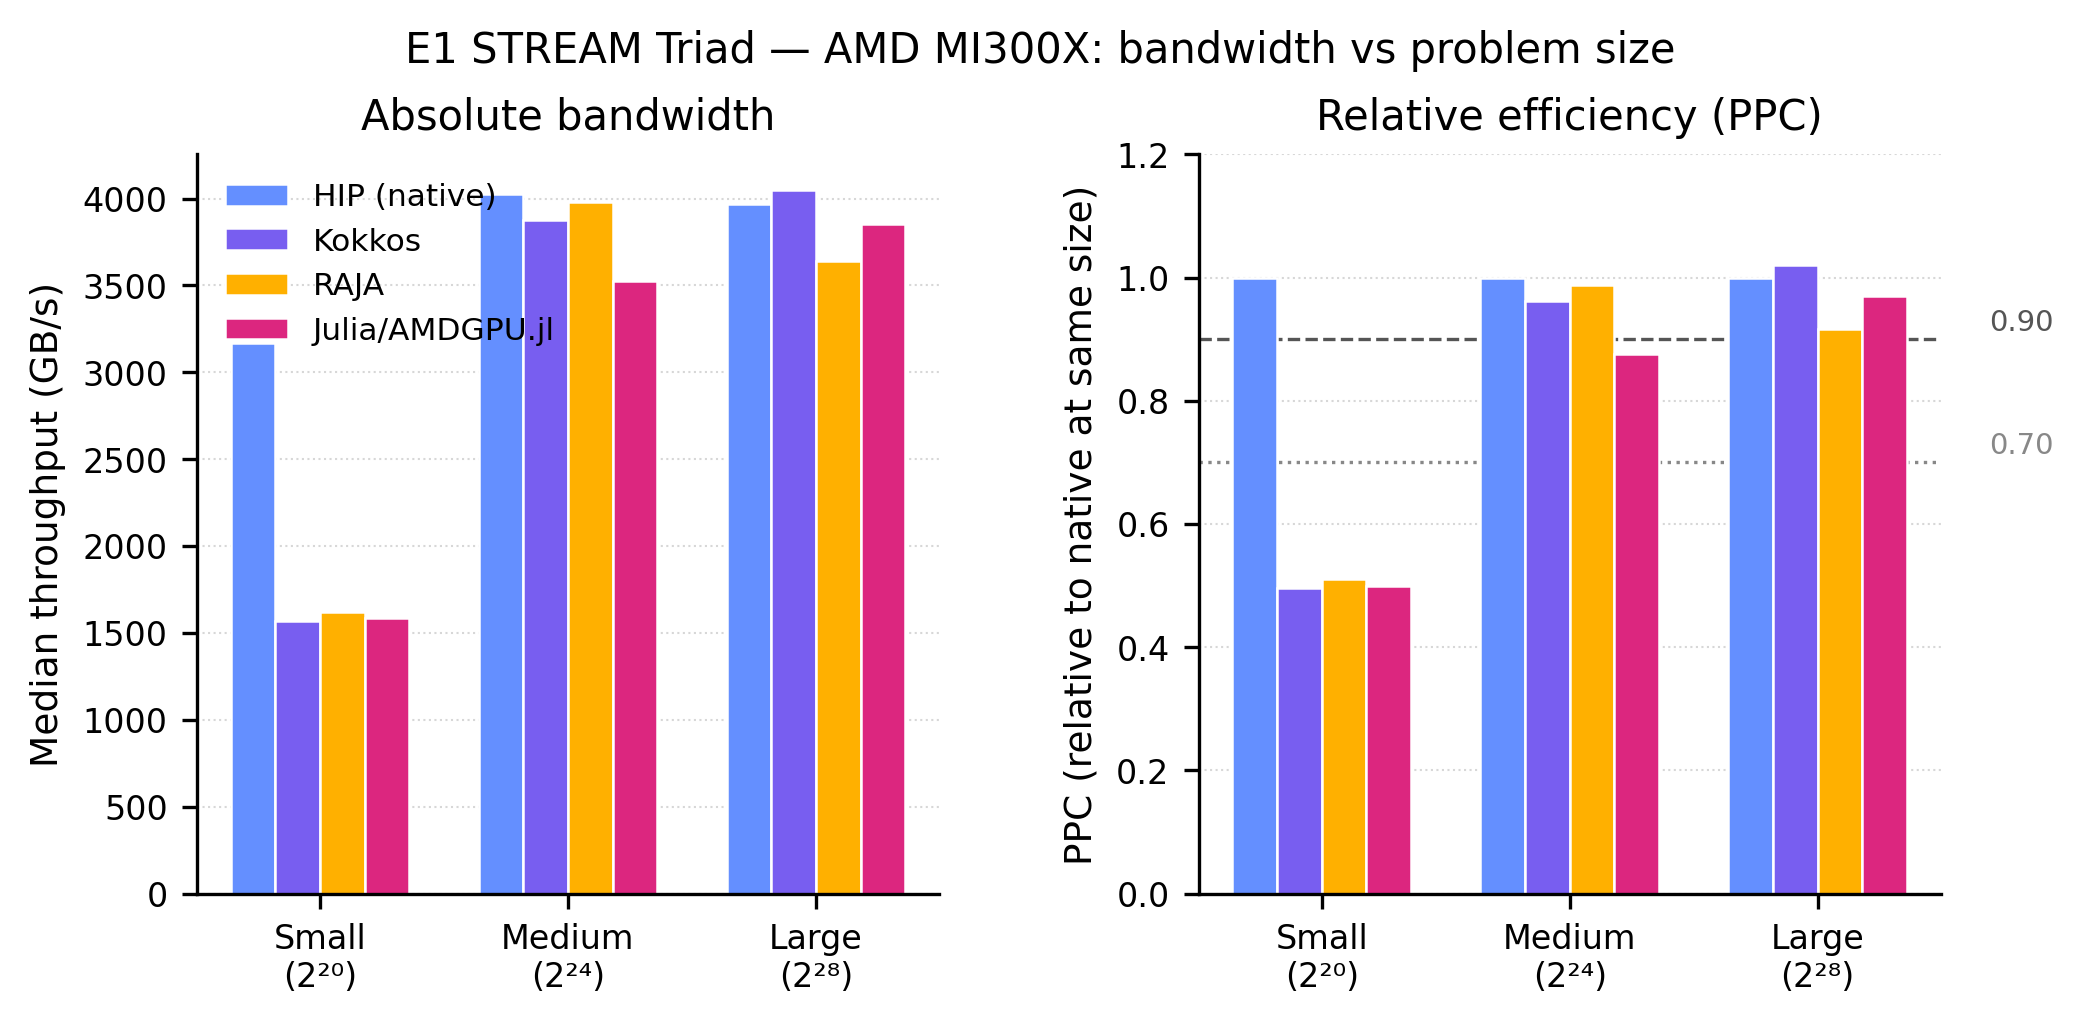
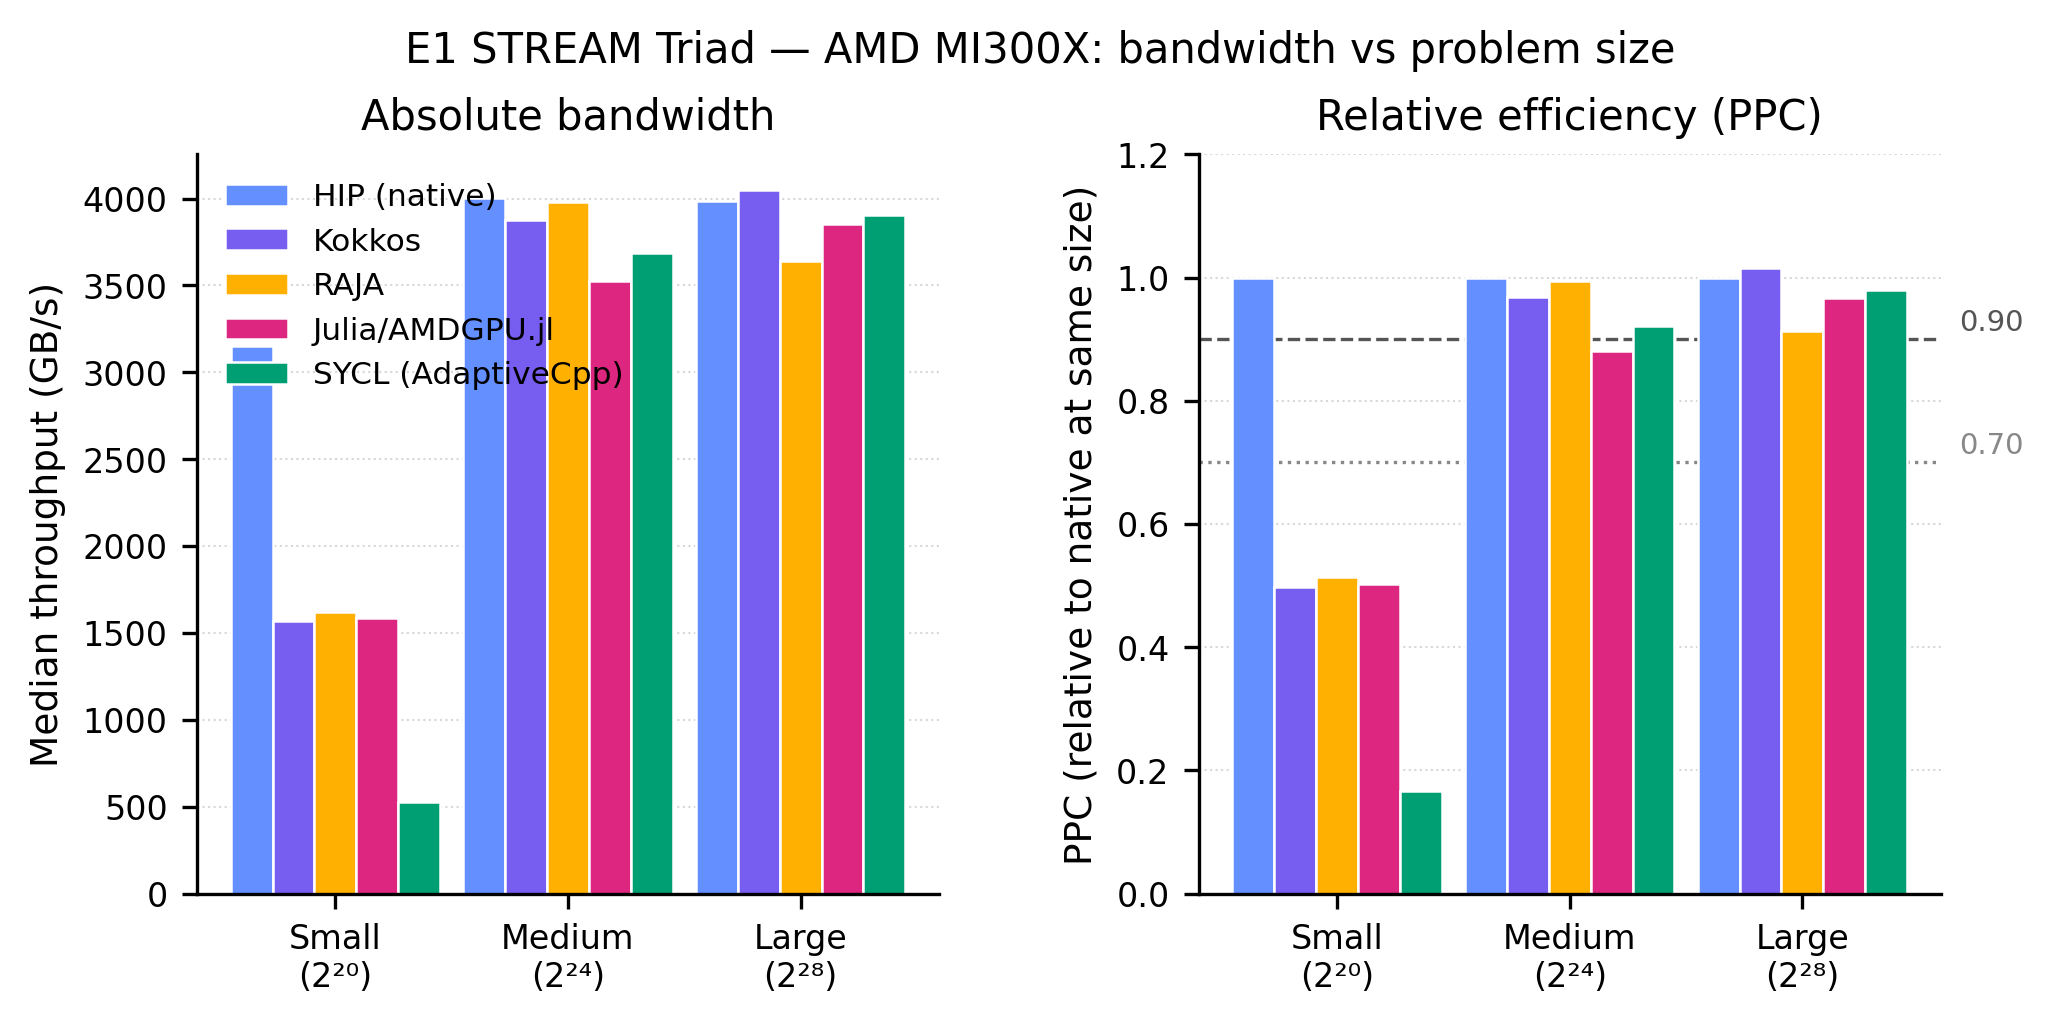
[E1] Add SYCL AMD MI300X benchmark results and update figures
Results (30 reps, hw_state=1 clean):
  large  (2^28): 3906 GB/s  PPC=0.98  — essentially zero overhead vs native
  medium (2^24): 3685 GB/s  PPC=0.92
  small  (2^20):  527 GB/s  PPC=0.17  — AdaptiveCpp dispatch overhead exposed

process_e1.py: add sycl to amd_mi300x abstractions list
plot_e1.py: add sycl color/label; fig7 now shows 5 AMD abstractions;
  fig8 cross-platform keeps common_abs=[native,kokkos,raja,julia] only

diff --git a/scripts/plot_e1.py b/scripts/plot_e1.py
@@ -63,6 +63,7 @@ COLORS = {
     "raja":   "#FFB000",   # amber
     "julia":  "#DC267F",   # magenta
     "numba":  "#FE6100",   # orange
+    "sycl":   "#009E73",   # teal (colorblind-safe)
 }
 
 LABELS = {
@@ -74,12 +75,13 @@ LABELS = {
 }
 
 # ── AMD-specific constants ─────────────────────────────────────────────────────
-AMD_ABSTRACTIONS = ["native", "kokkos", "raja", "julia"]
+AMD_ABSTRACTIONS = ["native", "kokkos", "raja", "julia", "sycl"]
 AMD_LABELS = {
     "native": "HIP (native)",
     "kokkos": "Kokkos",
     "raja":   "RAJA",
     "julia":  "Julia/AMDGPU.jl",
+    "sycl":   "SYCL (AdaptiveCpp)",
 }
 SIZE_ORDER  = ["small", "medium", "large"]
 SIZE_LABELS = {"small": "Small\n(2²⁰)", "medium": "Medium\n(2²⁴)", "large": "Large\n(2²⁸)"}
@@ -397,8 +399,9 @@ def fig7_amd_size_sensitivity(summary: pd.DataFrame):
 
 # ── Fig 8: Cross-platform PPC (large problem size) ────────────────────────────
 def fig8_crossplatform_ppc(summary: pd.DataFrame):
-    # Large problem size only; abstractions present on both platforms
-    common_abs = AMD_ABSTRACTIONS  # native, kokkos, raja, julia
+    # Large problem size only; abstractions present on BOTH platforms
+    # (SYCL is AMD-only in this experiment — excluded from cross-platform view)
+    common_abs = ["native", "kokkos", "raja", "julia"]
     platforms  = ["nvidia_rtx5060_laptop_locked", "amd_mi300x"]
 
     large = summary[summary["problem_size"] == "large"].copy()

diff --git a/scripts/process_e1.py b/scripts/process_e1.py
@@ -47,7 +47,7 @@ PLATFORM_CONFIGS = {
     "amd_mi300x": {
         "peak_bw_gbs":         5300.0,  # HBM3 theoretical peak
         "warmup_drop":         0,        # hw_state_verified is the sole warmup gate
-        "abstractions":        ["native", "kokkos", "raja", "julia"],
+        "abstractions":        ["native", "kokkos", "raja", "julia", "sycl"],
         "select_native_batch0": False,
     },
 }
